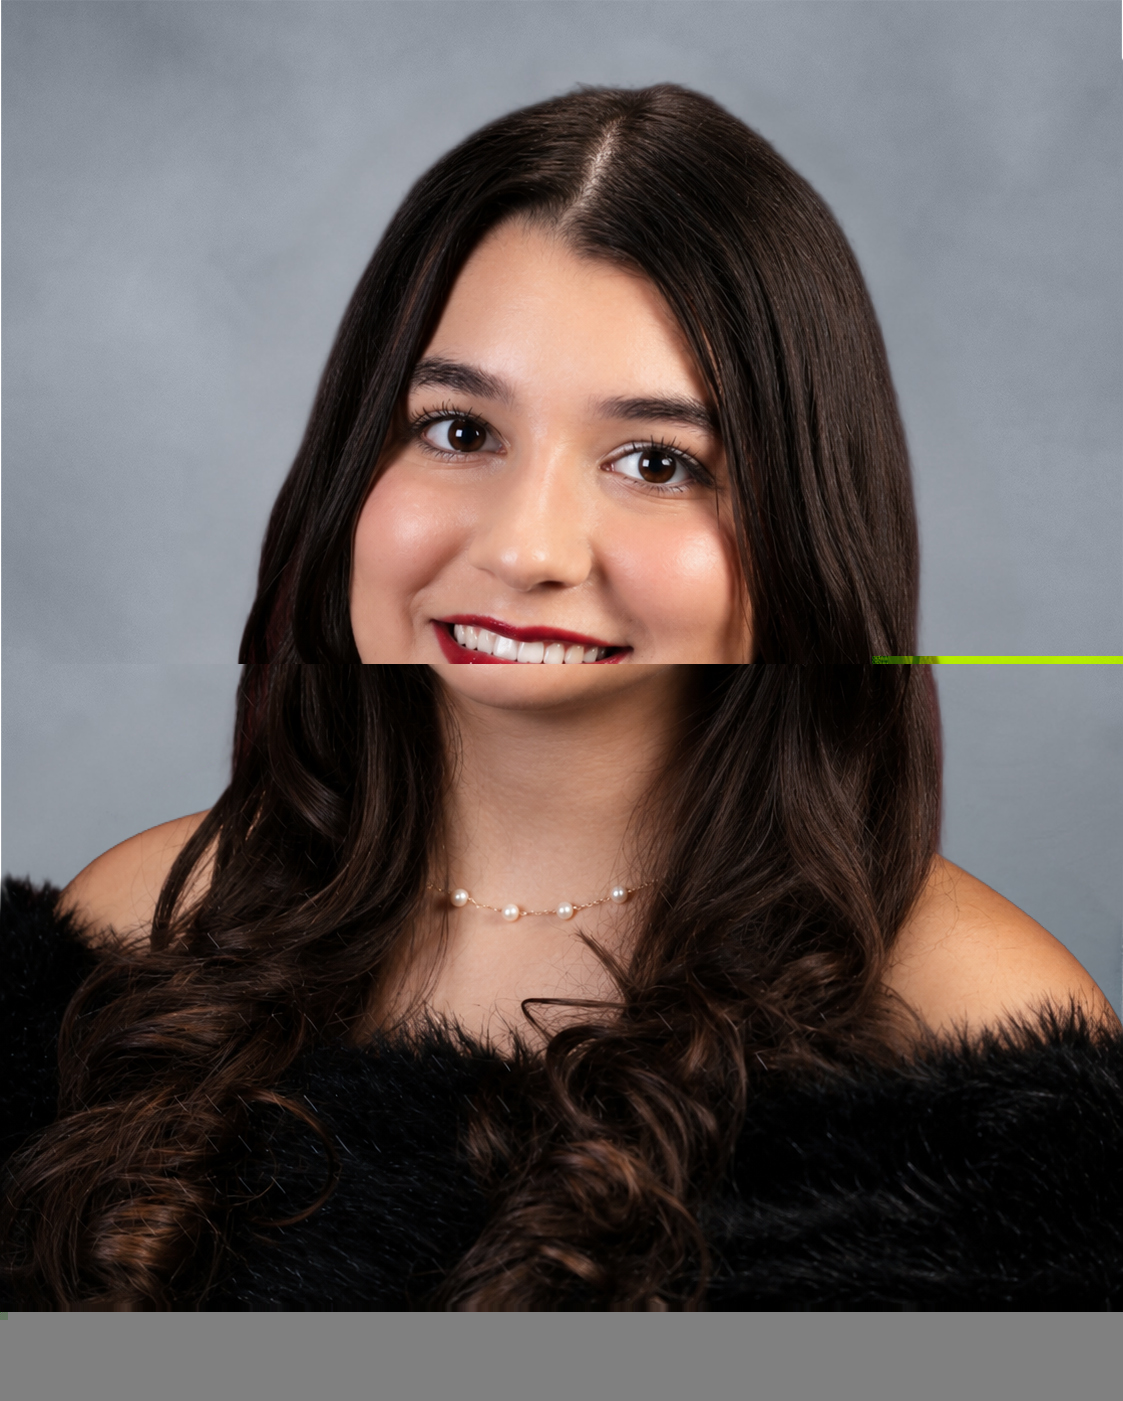
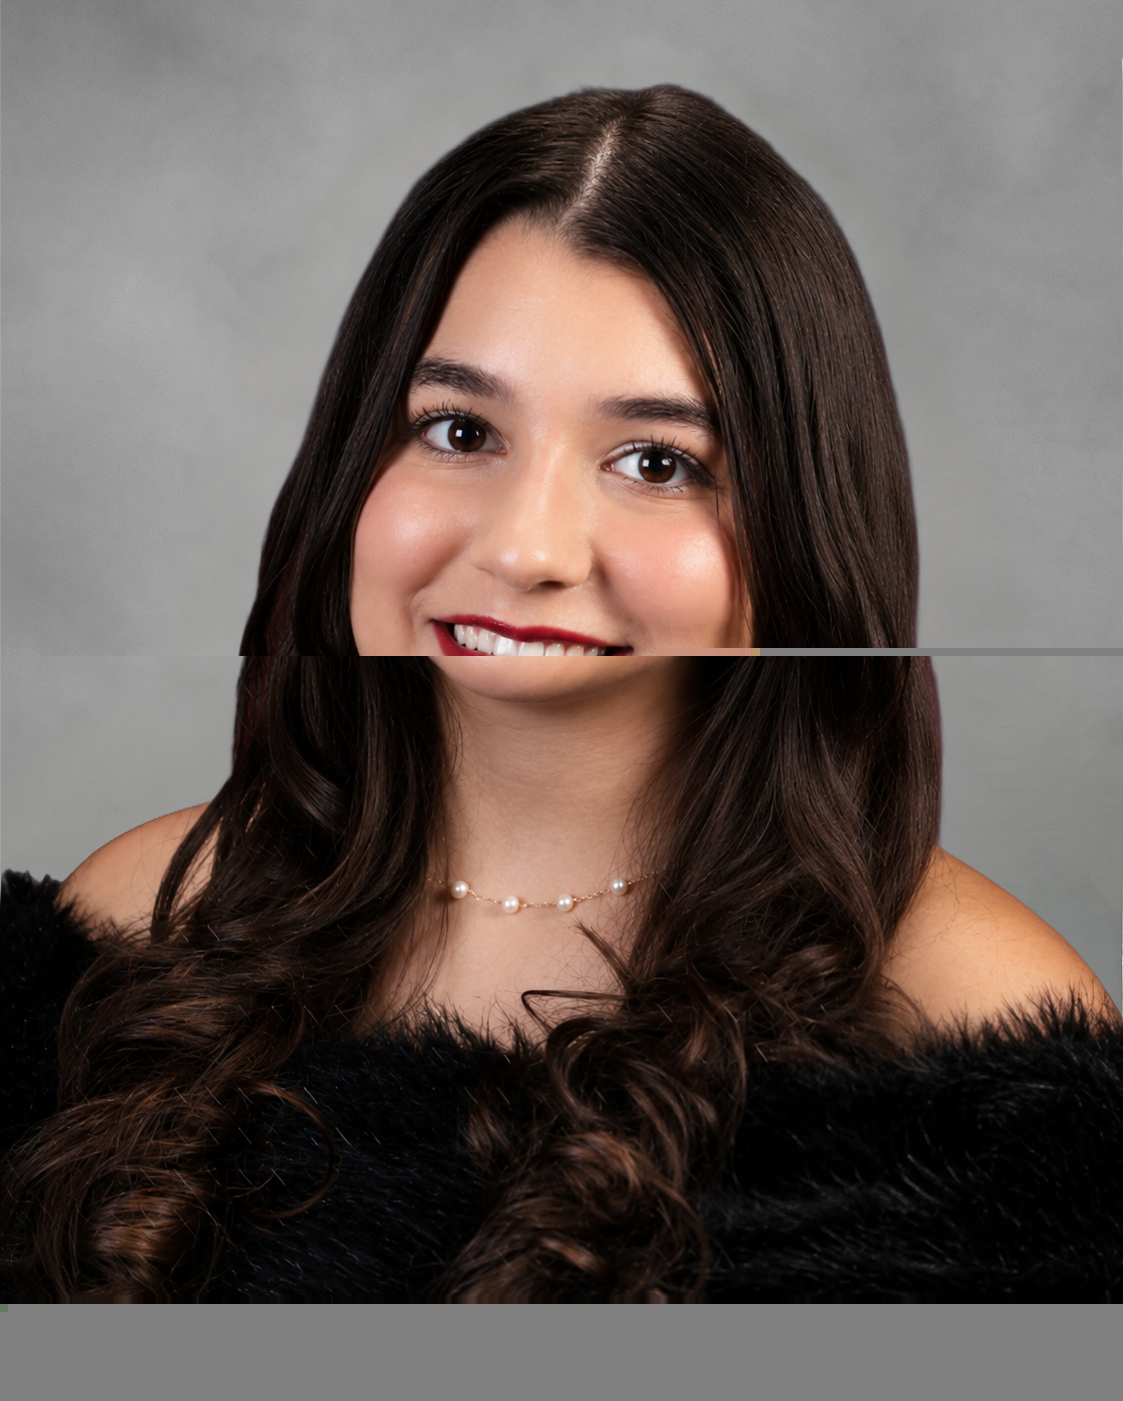
Keep team names on one line and update Jessica portrait

diff --git a/public/about.css b/public/about.css
@@ -23,7 +23,7 @@
 .team-card:nth-child(4) { background: #DCE3FC; }
 .team-card:nth-child(5) { background: #DDF6FD; }
 .team-card-photo { width: 100%; aspect-ratio: 3 / 4; object-fit: cover; object-position: center; border-radius: 6px; background: var(--paper); border: 1px dashed var(--line); }
-.team-card h3 { margin: 34px 0 8px; font-size: 25px; letter-spacing: -.04em; }
+.team-card h3 { margin: 34px 0 8px; font-size: 25px; letter-spacing: -.06em; white-space: nowrap; }
 .team-card p { margin: 0; color: #555; line-height: 1.45; }
 .about-footer { margin-top: 40px; padding: 34px 0; border-top: 1px solid var(--line); display: flex; justify-content: space-between; gap: 20px; font-size: 13px; color: #666; background: var(--paper); }
 @media(max-width:720px) {
